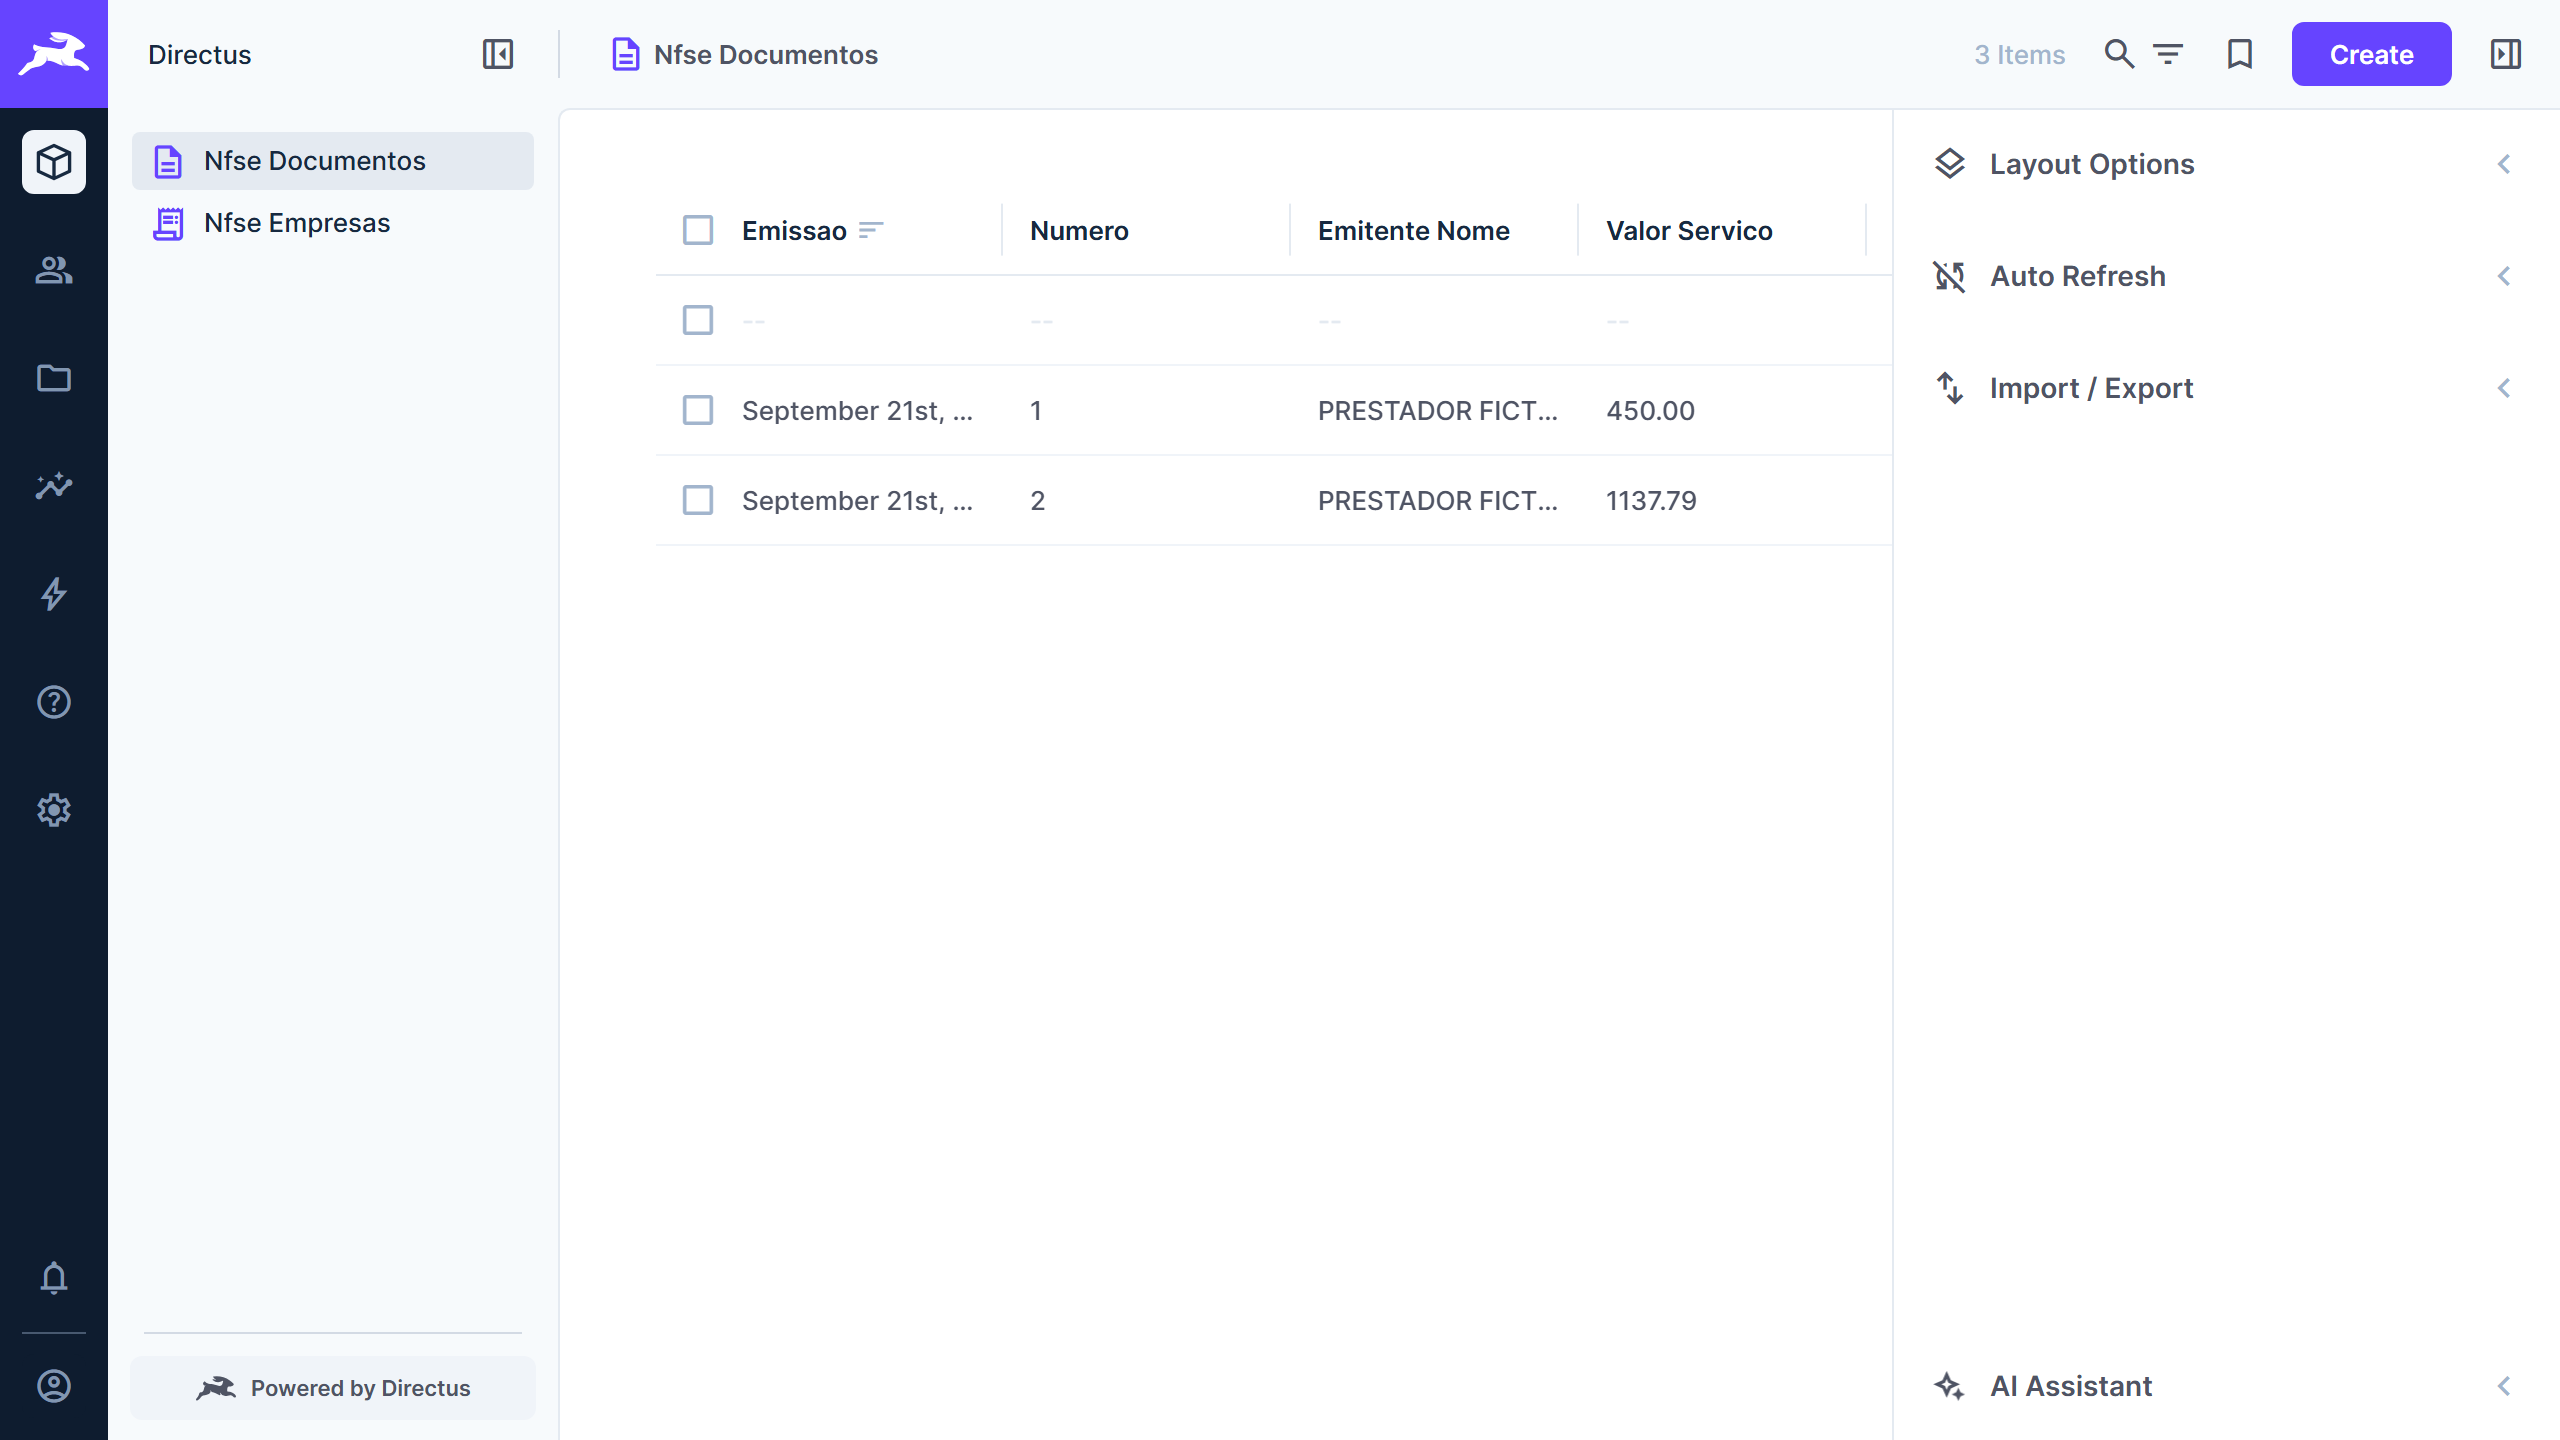
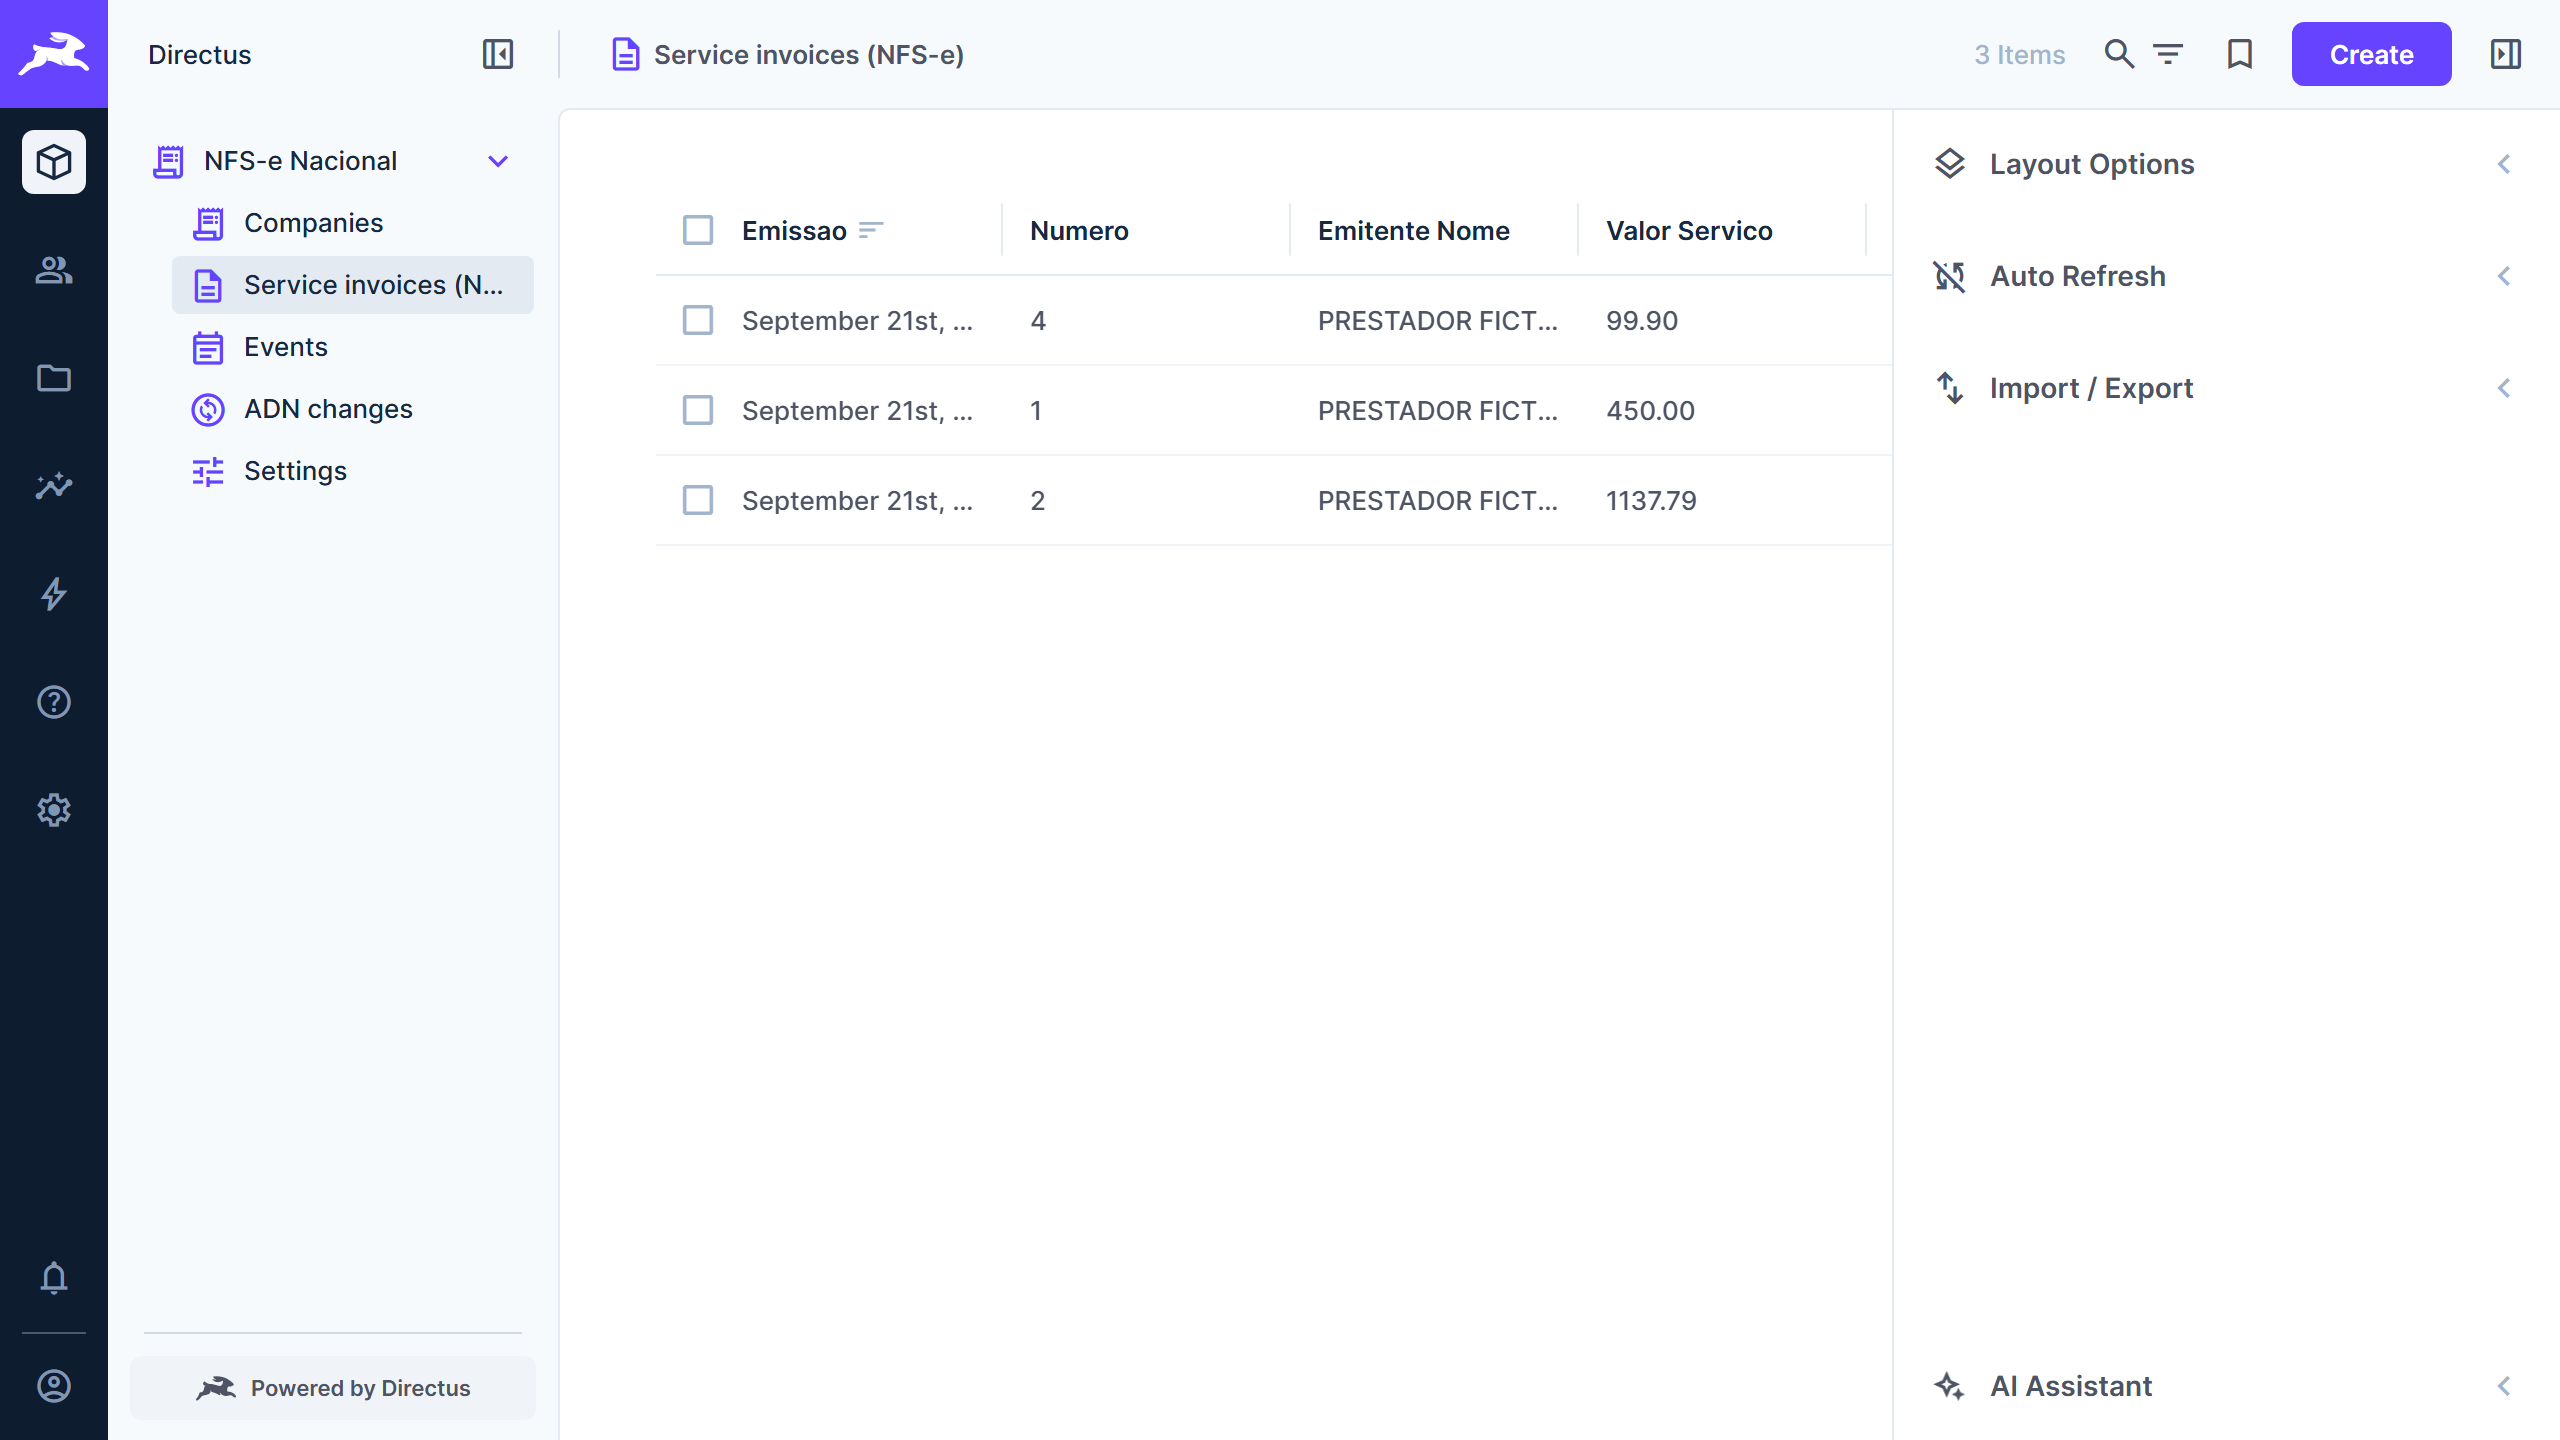
feat: pasta NFS-e Nacional no menu e logotipo oficial da NFS-e (#18)
## O que muda
- **Pasta "NFS-e Nacional"** no menu do Directus agrupando Empresas,
Notas (NFS-e), Eventos, Mudanças do ADN e Configurações, com nomes em
pt-BR e en-US. Em instalações existentes (como a de produção) a
organização é feita na inicialização, sem desfazer o que alguém já moveu
ou renomeou. Se essa etapa falhar, só registra aviso: não bloqueia a
subida nem a migração.
- **Logotipo oficial da NFS-e** ([gov.br/nfse → Logos da
NFS-e](https://www.gov.br/nfse/pt-br/biblioteca/documentacao-tecnica/logos-da-nfs-e))
no cabeçalho do módulo e nos READMEs. Arquivos idênticos aos oficiais
(mesmo SHA-256), conteúdo do gov.br sob CC BY-ND 3.0: usados sem
alteração, com crédito e aviso de projeto independente.
- Screenshots novos.

## Como foi testado
- [x] `pnpm e2e`: pasta criada (sem tabela), coleções agrupadas e com
nomes; reinício sem erro (a pasta não é recriada) e migração intacta
- [x] lint, tipos, 74 + 11 testes, `directus-extension validate`

🤖 Generated with [Claude Code](https://claude.com/claude-code)

diff --git a/packages/directus-extension/src/module/logo-nfse.ts b/packages/directus-extension/src/module/logo-nfse.ts
@@ -1,0 +1,6 @@
+/**
+ * Logotipo oficial da NFS-e (versão vertical), sem alterações: gov.br/nfse → Documentação técnica → Logos da NFS-e.
+ * Conteúdo do gov.br sob Creative Commons Atribuição-SemDerivações 3.0. O arquivo original está em
+ * docs/imagens/logo-nfse-vertical.png. Este projeto é independente, sem vínculo com o Governo Federal.
+ */
[1 lines of base64/hex data omitted]

diff --git a/packages/directus-extension/src/shared/esquema.ts b/packages/directus-extension/src/shared/esquema.ts
@@ -6,6 +6,17 @@ export const DOCUMENTOS = 'nfse_documentos';
 export const CONFIGURACOES = 'nfse_configuracoes';
 export const DIVERGENCIAS = 'nfse_divergencias';
 export const EVENTOS = 'nfse_eventos';
+/** Pasta (coleção sem tabela) que agrupa as coleções da extensão no menu do Directus. */
+export const PASTA = 'nfse_nacional';
+
+/** Ordem e nomes no menu (pt-BR e en-US). */
+const ORGANIZACAO: Array<{ colecao: string; ptBR: string; enUS: string }> = [
+	{ colecao: EMPRESAS, ptBR: 'Empresas', enUS: 'Companies' },
+	{ colecao: DOCUMENTOS, ptBR: 'Notas (NFS-e)', enUS: 'Service invoices (NFS-e)' },
+	{ colecao: EVENTOS, ptBR: 'Eventos', enUS: 'Events' },
+	{ colecao: DIVERGENCIAS, ptBR: 'Mudanças do ADN', enUS: 'ADN changes' },
+	{ colecao: CONFIGURACOES, ptBR: 'Configurações', enUS: 'Settings' },
+];
 
 const id = {
 	field: 'id',
@@ -241,6 +252,54 @@ export async function garantirEsquema(ctx: Contexto): Promise<void> {
 	}
 
 	await garantirEventos(ctx);
+	// Só cosmético: um erro aqui não pode impedir a inicialização (nem a migração que vem depois).
+	await organizarNoMenu(ctx).catch((erro) => ctx.logger.warn(`[nfse-nacional] não consegui organizar o menu: ${erro instanceof Error ? erro.message : erro}`));
+}
+
+/**
+ * Agrupa as coleções na pasta "NFS-e Nacional" e dá nomes legíveis. Em instalações antigas só ajusta
+ * o que ainda não foi organizado: se alguém mover ou renomear depois, a escolha é respeitada.
+ */
+async function organizarNoMenu(ctx: Contexto): Promise<void> {
+	const { CollectionsService } = ctx.services;
+	const schema = await ctx.getSchema();
+	const colecoes = new CollectionsService({ schema, accountability: null });
+
+	// Pastas não têm tabela e por isso não aparecem em schema.collections: confere pela lista de coleções.
+	const pastaExiste = await colecoes.readOne(PASTA).then(() => true, () => false);
+
+	if (!pastaExiste) {
+		await colecoes.createOne({
+			collection: PASTA,
+			meta: {
+				icon: 'receipt_long',
+				note: 'NFS-e Nacional: notas de serviço do ADN',
+				collapse: 'open',
+				translations: [
+					{ language: 'pt-BR', translation: 'NFS-e Nacional' },
+					{ language: 'en-US', translation: 'NFS-e Nacional' },
+				],
+			},
+			schema: null,
+		});
+
+		ctx.logger.info(`[nfse-nacional] pasta ${PASTA} criada`);
+	}
+
+	const atuais: Array<{ collection: string; meta: { group?: string | null; translations?: unknown } | null }> = await colecoes.readMany(ORGANIZACAO.map((o) => o.colecao));
+
+	for (const [indice, { colecao, ptBR, enUS }] of ORGANIZACAO.entries()) {
+		const meta = atuais.find((a) => a.collection === colecao)?.meta;
+		if (!meta || meta.group) continue;
+
+		await colecoes.updateOne(colecao, {
+			meta: {
+				group: PASTA,
+				sort: indice + 1,
+				...(meta.translations ? {} : { translations: [{ language: 'pt-BR', translation: ptBR }, { language: 'en-US', translation: enUS }] }),
+			},
+		});
+	}
 }
 
 /**

diff --git a/packages/directus-extension/src/module/pagina.vue b/packages/directus-extension/src/module/pagina.vue
@@ -1,6 +1,7 @@
 <script setup lang="ts">
 import { useApi } from '@directus/extensions-sdk';
 import { onMounted, reactive, ref } from 'vue';
+import { LOGO_NFSE } from './logo-nfse.js';
 
 interface Empresa {
 	id: number;
@@ -165,6 +166,11 @@ function textoErro(erro: unknown): string {
 		</template>
 
 		<div class="conteudo">
+			<header class="cabecalho">
+				<img :src="LOGO_NFSE" alt="NFS-e — Nota Fiscal de Serviço eletrônica">
+				<p>Notas de serviço buscadas automaticamente no Ambiente de Dados Nacional (ADN).</p>
+			</header>
+
 			<v-notice v-if="erroGeral" type="danger">
 				{{ erroGeral }}
 			</v-notice>
@@ -264,11 +270,34 @@ function textoErro(erro: unknown): string {
 					Nenhuma mudança detectada.
 				</p>
 			</section>
+
+			<footer class="creditos">
+				Logotipo da NFS-e: Governo Federal (<a href="https://www.gov.br/nfse" target="_blank" rel="noopener">gov.br/nfse</a>), sob CC BY-ND 3.0.
+				Extensão independente, sem vínculo com a Receita Federal ou o Comitê Gestor da NFS-e.
+			</footer>
 		</div>
 	</private-view>
 </template>
 
 <style scoped>
+.cabecalho {
+	display: flex;
+	gap: 20px;
+	align-items: center;
+	margin-bottom: 24px;
+}
+.cabecalho img {
+	height: 72px;
+	width: auto;
+}
+.cabecalho p {
+	color: var(--theme--foreground-subdued);
+}
+.creditos {
+	margin-top: 32px;
+	font-size: 12px;
+	color: var(--theme--foreground-subdued);
+}
 .conteudo {
 	padding: var(--content-padding);
 	padding-top: 0;

diff --git a/packages/directus-extension/README.md b/packages/directus-extension/README.md
@@ -1,3 +1,5 @@
+<p align="center"><img src="https://raw.githubusercontent.com/CamilloBorges/nfse-nacional/main/docs/imagens/logo-nfse-horizontal.png" alt="NFS-e — Nota Fiscal de Serviço eletrônica" width="420"></p>
+
 # NFS-e Nacional para Directus
 
 Sincroniza as **NFS-e do Sistema Nacional** (Ambiente de Dados Nacional – ADN) com coleções do Directus. A extensão
@@ -6,10 +8,13 @@ deixa tudo disponível pela API REST, pelo GraphQL e pelo **MCP nativo do Direct
 
 ![Tela de certificados](https://raw.githubusercontent.com/CamilloBorges/nfse-nacional/main/docs/imagens/tela-certificados.png)
 
-![Notas sincronizadas](https://raw.githubusercontent.com/CamilloBorges/nfse-nacional/main/docs/imagens/colecao-documentos.png)
+![Notas sincronizadas, agrupadas na pasta NFS-e Nacional](https://raw.githubusercontent.com/CamilloBorges/nfse-nacional/main/docs/imagens/colecao-documentos.png)
+
+![Nota cancelada pelos eventos](https://raw.githubusercontent.com/CamilloBorges/nfse-nacional/main/docs/imagens/nota-cancelada.png)
 
 ## Recursos
 
+- Agrupa as coleções na pasta **NFS-e Nacional** do menu, com nomes legíveis em português e inglês.
 - Cria as coleções `nfse_empresas` e `nfse_documentos` na primeira inicialização.
 - Sincroniza por agenda (cron) ou sob demanda, retomando do último NSU; a gravação é idempotente.
 - Lê os campos principais da NFS-e (prestador, tomador, valores, competência, código do serviço) e guarda o XML
@@ -152,3 +157,8 @@ Detalhes em [`packages/core`](https://github.com/CamilloBorges/nfse-nacional/tre
 
 [MIT](https://github.com/CamilloBorges/nfse-nacional/blob/main/LICENSE). Projeto independente, sem vínculo com a Receita
 Federal ou o Comitê Gestor da NFS-e.
+
+> Logotipo da NFS-e: Governo Federal
+> ([gov.br/nfse](https://www.gov.br/nfse/pt-br/biblioteca/documentacao-tecnica/logos-da-nfs-e)), usado sem alterações
+> sob [CC BY-ND 3.0](https://creativecommons.org/licenses/by-nd/3.0/deed.pt_BR). Este projeto é independente, sem
+> vínculo com a Receita Federal ou o Comitê Gestor da NFS-e.

diff --git a/README.md b/README.md
@@ -1,3 +1,5 @@
+<p align="center"><img src="docs/imagens/logo-nfse-horizontal.png" alt="NFS-e — Nota Fiscal de Serviço eletrônica" width="420"></p>
+
 # nfse-nacional
 
 [![Testes](https://github.com/CamilloBorges/nfse-nacional/actions/workflows/testes.yml/badge.svg)](https://github.com/CamilloBorges/nfse-nacional/actions/workflows/testes.yml)
@@ -18,7 +20,9 @@ periodicamente a API de distribuição do ADN com o certificado A1 da empresa e 
 coleção do Directus. A partir daí, as notas ficam disponíveis pela API REST, pelo GraphQL e pelo **MCP nativo do
 Directus**, com as permissões de cada usuário.
 
-![Tela de certificados](docs/imagens/tela-certificados.png)
+| Módulo NFS-e Nacional                                 | Notas agrupadas na pasta do menu                                         |
+| ----------------------------------------------------- | ------------------------------------------------------------------------ |
+| ![Tela do módulo](docs/imagens/tela-certificados.png) | ![Coleções na pasta NFS-e Nacional](docs/imagens/colecao-documentos.png) |
 
 > Projeto independente, sem vínculo com a Receita Federal ou o Comitê Gestor da NFS-e.
 
@@ -109,3 +113,8 @@ npm e cria o Release.
 ## Licença
 
 [MIT](LICENSE)
+
+> Logotipo da NFS-e: Governo Federal
+> ([gov.br/nfse](https://www.gov.br/nfse/pt-br/biblioteca/documentacao-tecnica/logos-da-nfs-e)), usado sem alterações
+> sob [CC BY-ND 3.0](https://creativecommons.org/licenses/by-nd/3.0/deed.pt_BR). Este projeto é independente, sem
+> vínculo com a Receita Federal ou o Comitê Gestor da NFS-e.

diff --git a/CHANGELOG.md b/CHANGELOG.md
@@ -8,6 +8,14 @@ O formato segue o [Keep a Changelog](https://keepachangelog.com/pt-BR/1.1.0/) e 
 
 ## [Não lançado]
 
+### Adicionado
+
+- **Pasta "NFS-e Nacional" no menu do Directus**, agrupando as coleções da extensão em ordem (Empresas, Notas, Eventos,
+  Mudanças do ADN, Configurações), com nomes em português e inglês. Instalações existentes são organizadas na
+  inicialização, sem desfazer o que alguém já tiver movido ou renomeado.
+- **Logotipo oficial da NFS-e** (gov.br/nfse, sem alterações, CC BY-ND 3.0) no cabeçalho do módulo e nos READMEs, com
+  crédito e aviso de que o projeto é independente.
+
 ## [0.4.0] - 2026-10-24
 
 ### Adicionado
